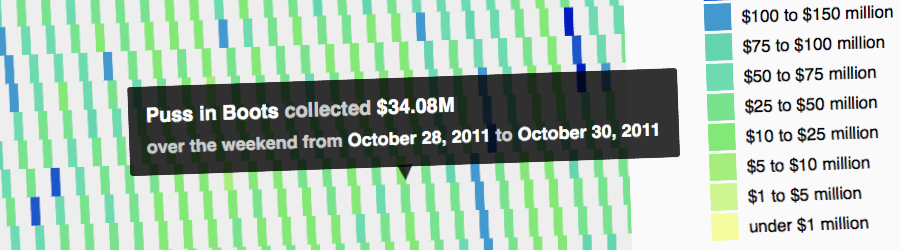
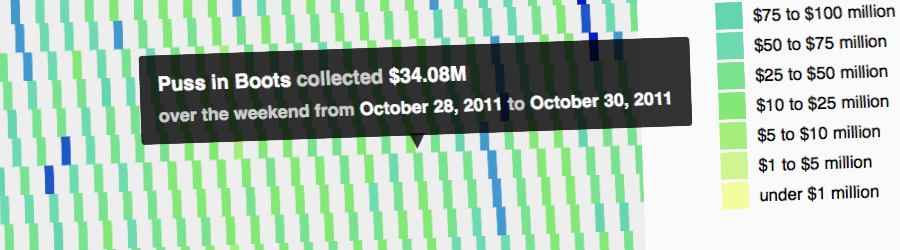
Got rid of moment-range and fixed some non-leap year issues.

diff --git a/src/public/js/box-office.js b/src/public/js/box-office.js
@@ -1,5 +1,3 @@
-window['moment-range'].extendMoment(moment);
-as
 var opts = {
   lines: 10 // The number of lines to draw
 , length: 25 // The length of each line
@@ -26,13 +24,14 @@ var opts = {
 var $spinner = document.getElementById('spinner'),
     spinner = new Spinner(opts).spin($spinner);
 
-var padding = 10; // padding needed after migration to d3.v4
+var padding = 10, // padding needed after migration to d3.v4
+    secondsInOneDay = 86400;
 
 var margin = {top: 0, right: 1, bottom: 20, left: 40},
     width = 900 - margin.left - margin.right,
     height = 800 - margin.top - margin.bottom;
 
-var x = d3.scaleLinear().domain([0, 31536000]).range([1, width]),
+var x = d3.scaleLinear().domain([0, 31536000 + secondsInOneDay]).range([1, width]),
     y = d3.scaleLinear().domain([1979, 2019]).range([height - padding, padding]),
     color = d3.scaleOrdinal().range([
               '#f0ff93',
@@ -200,9 +199,16 @@ function draw(data) {
              if (begin.year() < weekend.year) {
               begin = moment({ year: weekend.year, month: 0, day: 1 });
              }
+              
+             // correction for non-leap years
+             var needsCorrection = false;
+             if (!moment([weekend.year]).isLeapYear()) {
+               var mar1 = moment({ year: weekend.year, month: 2, day: 1, hour: 0, minute: 0, second: 0 });
+               needsCorrection = begin.isSameOrAfter(mar1);
+             }
 
              var secondsSinceBeginingOfYear = begin.diff(beginingOfYear, 'seconds');
-             return x(secondsSinceBeginingOfYear); 
+             return x(secondsSinceBeginingOfYear + (needsCorrection ? secondsInOneDay : 0)); 
            })
            .attr('width', function(weekend) { 
              var begin = moment(weekend.from),
@@ -218,16 +224,13 @@ function draw(data) {
 
              // correction for non-leap years
              var needsCorrection = false;
-             if (!begin.isLeapYear()) {
-               var feb28 = moment({ year: weekend.year, month: 1, day: 28 })
-                   mar2 = moment({ year: weekend.year, month: 2, day: 1 })
-                   weekendRange = moment.range(begin, end);
-                   betweenMonthsRange = moment.range(feb28, mar2);
-               needsCorrection = betweenMonthsRange.overlaps(weekendRange);
+             if (!moment([weekend.year]).isLeapYear()) {
+               var feb28 = moment({ year: weekend.year, month: 1, day: 28, hour: 0, minute: 0, second: 0 });
+               needsCorrection = (begin.isSameOrBefore(feb28) && end.isSameOrAfter(feb28));
              }
 
              var secondsInTheWeekend = end.diff(begin, 'seconds');
-             return x(secondsInTheWeekend + (needsCorrection ? 86400 : 0)); 
+             return x(secondsInTheWeekend + (needsCorrection ? secondsInOneDay : 0)); 
            })
            .on('mouseover', function(weekend) {
              tip.show(weekend);
@@ -237,7 +240,12 @@ function draw(data) {
            });
 
   boxOffice.selectAll('.between-boxoffice')
-           .data(function(yearBoxOffice) { return yearBoxOffice.betweenBoxOffices; })
+           .data(function(yearBoxOffice) { 
+             yearBoxOffice.betweenBoxOffices.forEach(function(between) {
+              between.year = yearBoxOffice.year;
+             });
+             return yearBoxOffice.betweenBoxOffices; 
+           })
            .enter()
            .append('rect')
            .attr('fill', '#eee')
@@ -245,9 +253,21 @@ function draw(data) {
            .attr('height', 20)
            .attr('x', function(between) { 
              var begin = moment(between.from),
-                 beginingOfYear = moment({ year: begin.year(), month: 0, day: 1 }),
-                 secondsSinceBeginingOfYear = begin.diff(beginingOfYear, 'seconds');
-             return x(secondsSinceBeginingOfYear); 
+                 beginingOfYear = moment({ year: begin.year(), month: 0, day: 1 });
+
+             console.log(between.year);
+              // correction for non-leap years
+             var needsCorrection = false;
+             if (!moment([between.year]).isLeapYear()) {
+               var mar1 = moment({ year: between.year, month: 2, day: 1, hour: 0, minute: 0, second: 0 });
+               needsCorrection = begin.isSameOrAfter(mar1);
+               console.log(mar1);
+               console.log(begin);
+               console.log(needsCorrection);
+             }
+
+             var secondsSinceBeginingOfYear = begin.diff(beginingOfYear, 'seconds');
+             return x(secondsSinceBeginingOfYear + (needsCorrection ? secondsInOneDay : 0)); 
            })
            .attr('width', function(between) { 
              var begin = moment(between.from),
@@ -256,15 +276,12 @@ function draw(data) {
 
              // correction for non-leap years
              var needsCorrection = false;
-             if (!begin.isLeapYear()) {
-               var feb28 = moment({ year: begin.year(), month: 1, day: 28 })
-                   mar2 = moment({ year: begin.year(), month: 2, day: 1 })
-                   betweenRange = moment.range(begin, end);
-                   betweenMonthsRange = moment.range(feb28, mar2);
-               needsCorrection = betweenMonthsRange.overlaps(betweenRange);
+             if (!moment([between.year]).isLeapYear()) {
+               var feb28 = moment({ year: between.year, month: 1, day: 28, hour: 0, minute: 0, second: 0 });
+               needsCorrection = (begin.isSameOrBefore(feb28) && end.isSameOrAfter(feb28));
              }
 
-             return x(secondsInBetween + (needsCorrection ? 86400 : 0)); 
+             return x(secondsInBetween + (needsCorrection ? secondsInOneDay : 0)); 
            });
 
   var svgLegend = d3.select(".legend")

diff --git a/gruntfile.js b/gruntfile.js
@@ -55,7 +55,6 @@ module.exports = function(grunt){
           'dist/js/box-office.min.js': [
             'src/vendor/d3-format/d3-format.js',
             'src/vendor/moment/moment.js',
-            'src/vendor/moment/moment-range.js',
             'src/public/js/box-office.js'
           ]
         }

diff --git a/src/views/visualizations/box-office.html b/src/views/visualizations/box-office.html
@@ -44,7 +44,6 @@
   <!-- build:js /js/box-office.min.js -->
   <script src="/d3-format/d3-format.js"></script>
   <script src="/moment/moment.js"></script>
-  <script src="/moment-range/moment-range.js"></script>
   <script src="/js/box-office.js"></script>
   <!-- /build -->
 {% endblock %}
